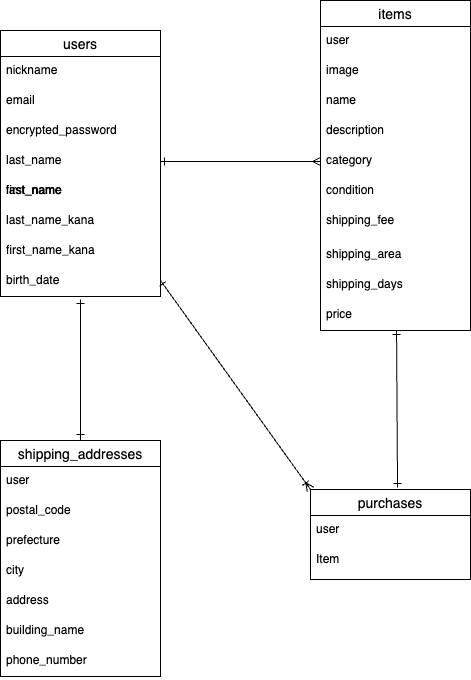
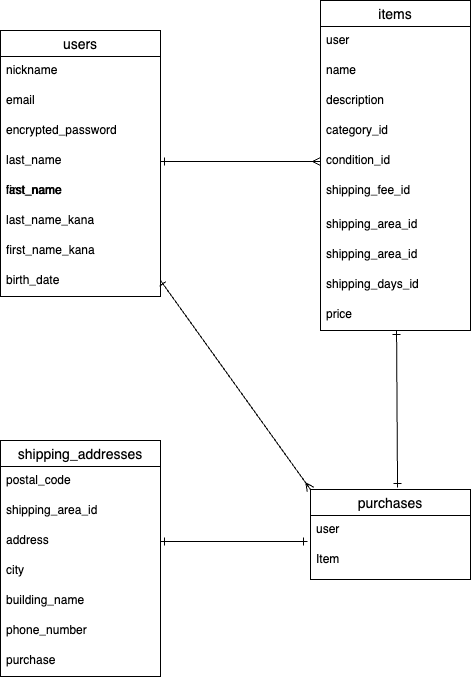
テーブル設計修正1

diff --git a/README.md b/README.md
@@ -15,24 +15,22 @@
 
 ### Association
 
-- has_many:items, dependent::destroy
-- has_many:purchases, dependent::destroy
-- has_one:shipping_address, dependent::destroy
+- has_many:items
+- has_many:purchases
 
 ## itemsテーブル
 
-| Column        | Type       | Options                        |
-| ------------- | ---------- | ------------------------------ |
-| user          | references | null: false, foreign_key: true |
-| image         | string     |                                |
-| name          | string     |                                |
-| description   | text       |                                |
-| category      | string     |                                |
-| condition     | string     |                                |
-| shipping_fee  | string     |                                |
-| shipping_area | string     |                                |
-| shipping_days | string     |                                |
-| price         | integer    |                                |
+| Column           | Type       | Options                        |
+| ---------------- | ---------- | ------------------------------ |
+| user             | references | null: false, foreign_key: true |
+| name             | string     | null: false                    |
+| description      | text       | null: false                    |
+| category_id      | integer    | null: false                    |
+| condition_id     | integer    | null: false                    |
+| shipping_fee_id  | integer    | null: false                    |
+| shipping_area_id | integer    | null: false                    |
+| shipping_days_id | integer    | null: false                    |
+| price            | integer    | null: false                    |
 
 ### Association
 
@@ -41,19 +39,19 @@
 
 ## shipping_addressesテーブル
 
-| Column        | Type       | Options                        |
-| ------------- | ---------- | ------------------------------ |
-| user          | references | null: false, foreign_key: true |
-| postal_code   | string     |                                |
-| prefecture    | string     |                                |
-| city          | string     |                                |
-| address       | string     |                                |
-| building_name | string     |                                |
-| phone_number  | string     |                                |
+| Column           | Type       | Options                        |
+| ---------------- | ---------- | ------------------------------ |
+| postal_code      | string     | null: false                    |
+| shipping_area_id | integer    | null: false                    |
+| city             | string     | null: false                    |
+| address          | string     | null: false                    |
+| building_name    | string     | null: false                    |
+| phone_number     | string     | null: false                    |
+| purchase         | references | foreign_key: true              |
 
 ### Association
 
-- belongs_to :user
+- belongs_to :purchase
 
 ## purchasesテーブル
 
@@ -66,3 +64,4 @@
 
 - belongs_to :item
 - belongs_to :user
+- belongs_to :shipping_address
